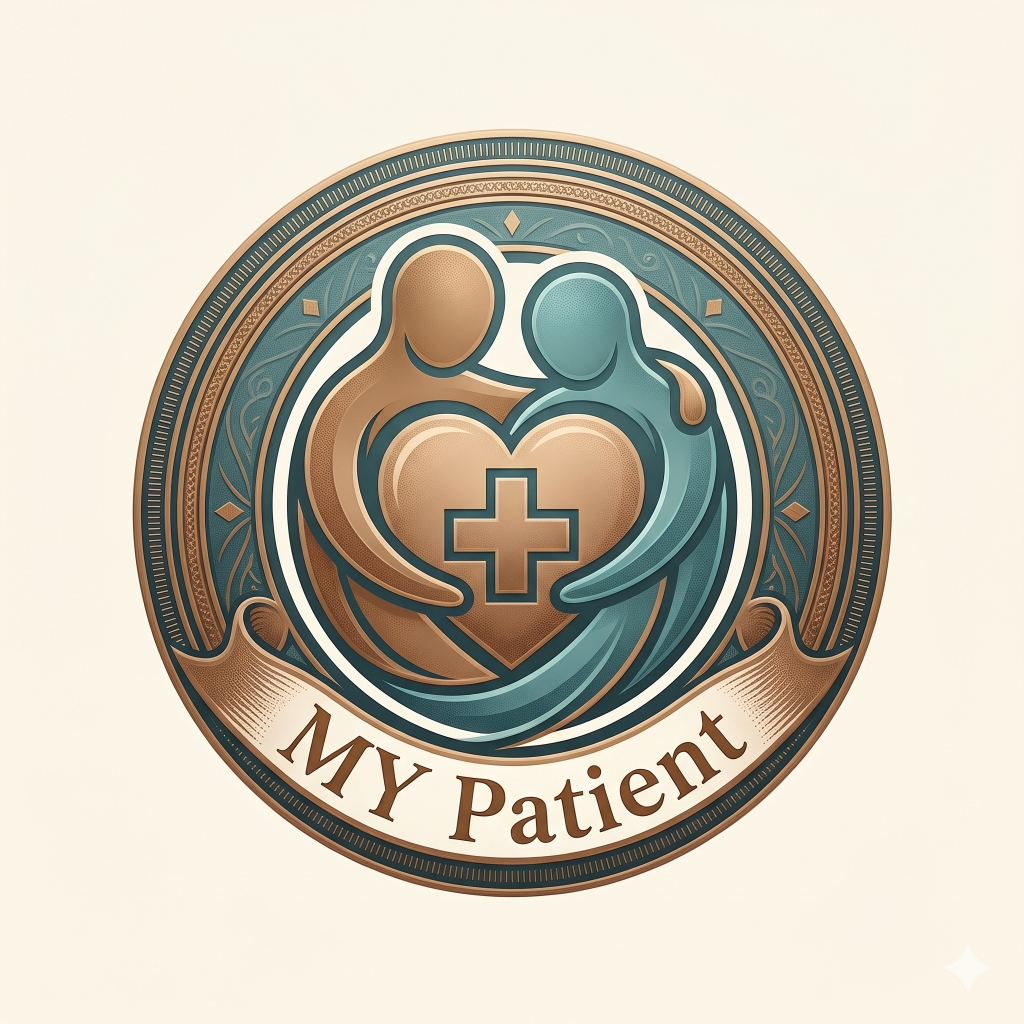
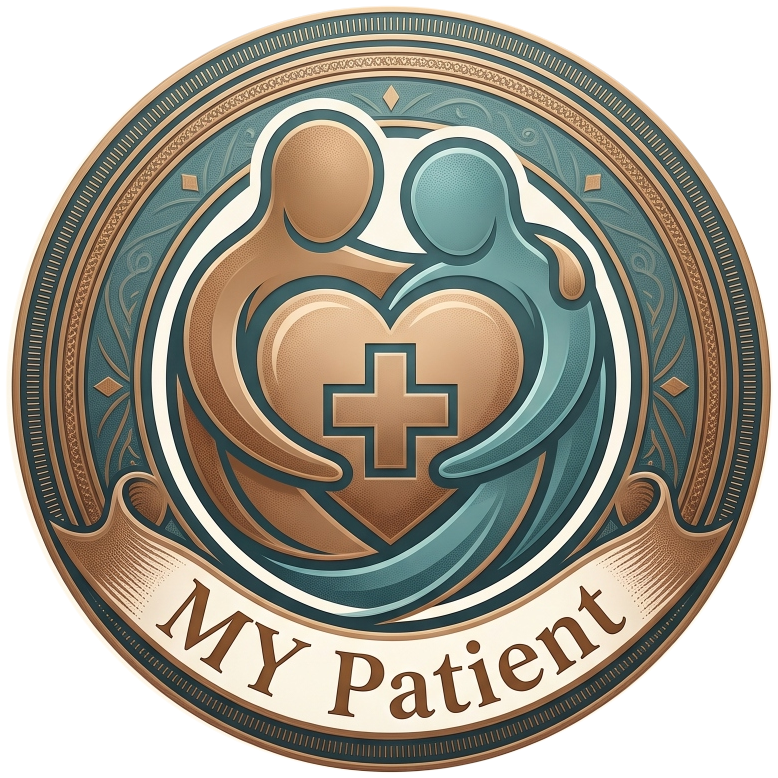
style: show only hallmark emblem without white rounded border and background

diff --git a/client/src/styles/app.css b/client/src/styles/app.css
@@ -575,11 +575,8 @@ input[type="date"].form-input {
 .header-hallmark-seal {
   width: 34px;
   height: 34px;
-  border-radius: 50%;
-  object-fit: cover;
-  box-shadow: 0 2px 6px rgba(0, 0, 0, 0.1);
-  border: 1px solid rgba(13, 92, 99, 0.15);
-  background-color: #faf9f5;
+  object-fit: contain;
+  filter: drop-shadow(0 2px 4px rgba(0, 0, 0, 0.12));
 }
 .header-portal-title {
   font-family: var(--font-serif);
@@ -596,18 +593,15 @@ input[type="date"].form-input {
   margin: 0 auto 16px;
 }
 .auth-hallmark-img {
-  width: 150px;
-  height: 150px;
-  border-radius: 50%;
-  object-fit: cover;
-  box-shadow: 0 8px 24px -4px rgba(13, 92, 99, 0.18), 0 2px 6px -1px rgba(0, 0, 0, 0.08);
-  border: 3px solid rgba(13, 92, 99, 0.12);
-  background-color: #faf9f5;
-  transition: transform 0.25s ease, box-shadow 0.25s ease;
+  width: 140px;
+  height: 140px;
+  object-fit: contain;
+  filter: drop-shadow(0 8px 20px rgba(13, 92, 99, 0.22)) drop-shadow(0 2px 6px rgba(0, 0, 0, 0.08));
+  transition: transform 0.25s ease, filter 0.25s ease;
 }
 .auth-hallmark-img:hover {
   transform: scale(1.03);
-  box-shadow: 0 12px 30px -4px rgba(13, 92, 99, 0.26), 0 4px 10px -2px rgba(0, 0, 0, 0.1);
+  filter: drop-shadow(0 12px 28px rgba(13, 92, 99, 0.3)) drop-shadow(0 4px 10px rgba(0, 0, 0, 0.12));
 }
 
 @media (max-width: 600px) {
